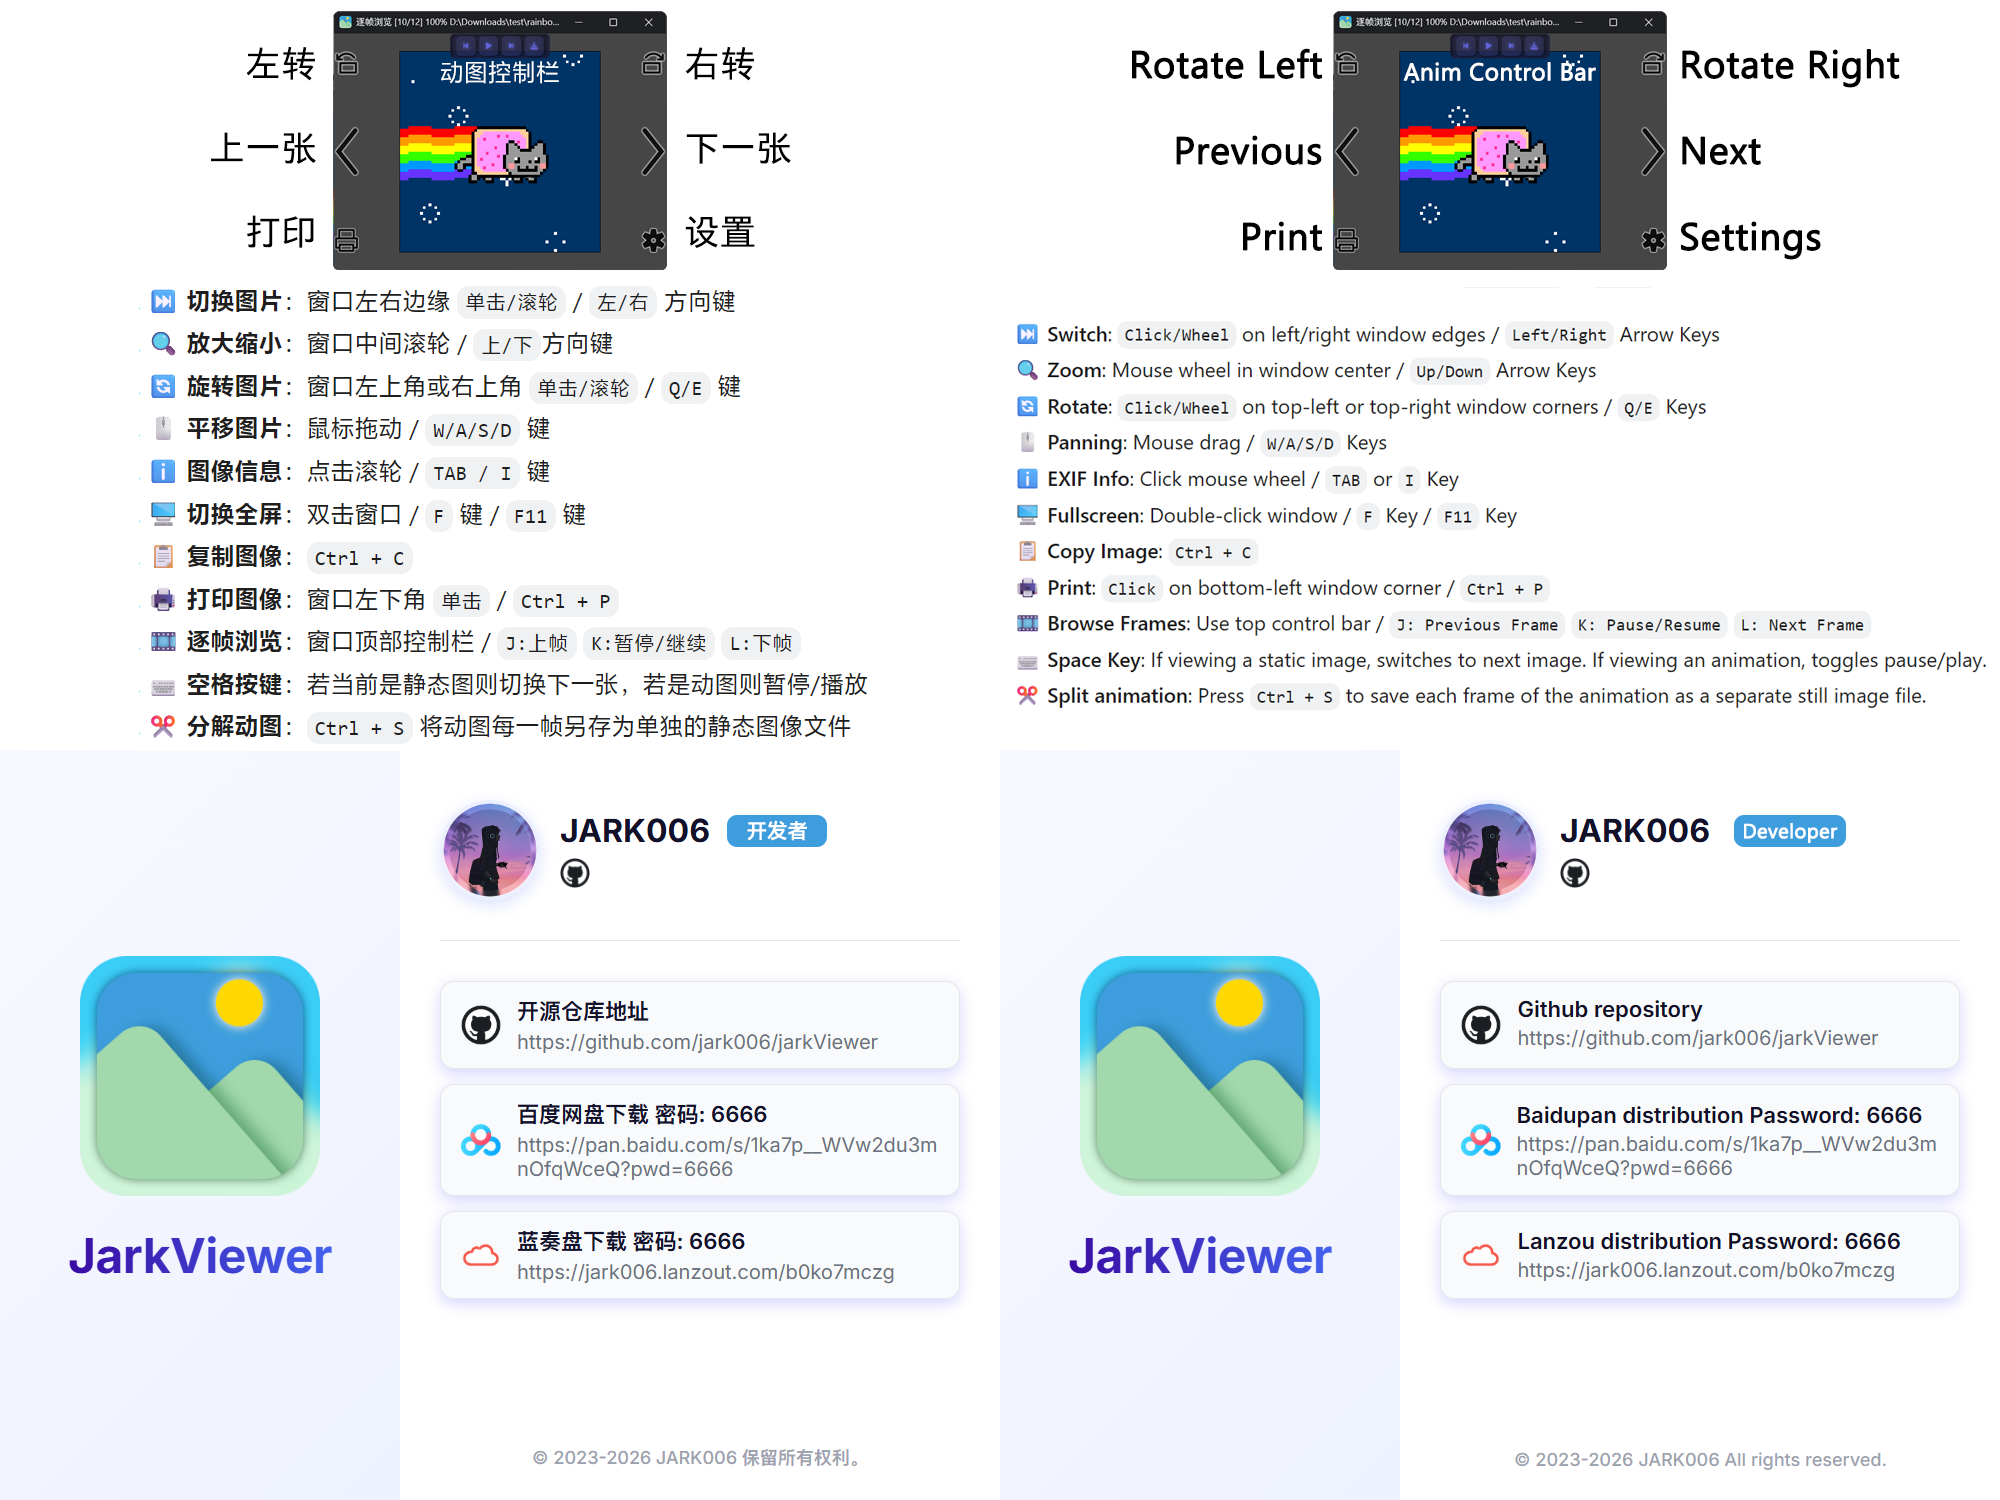
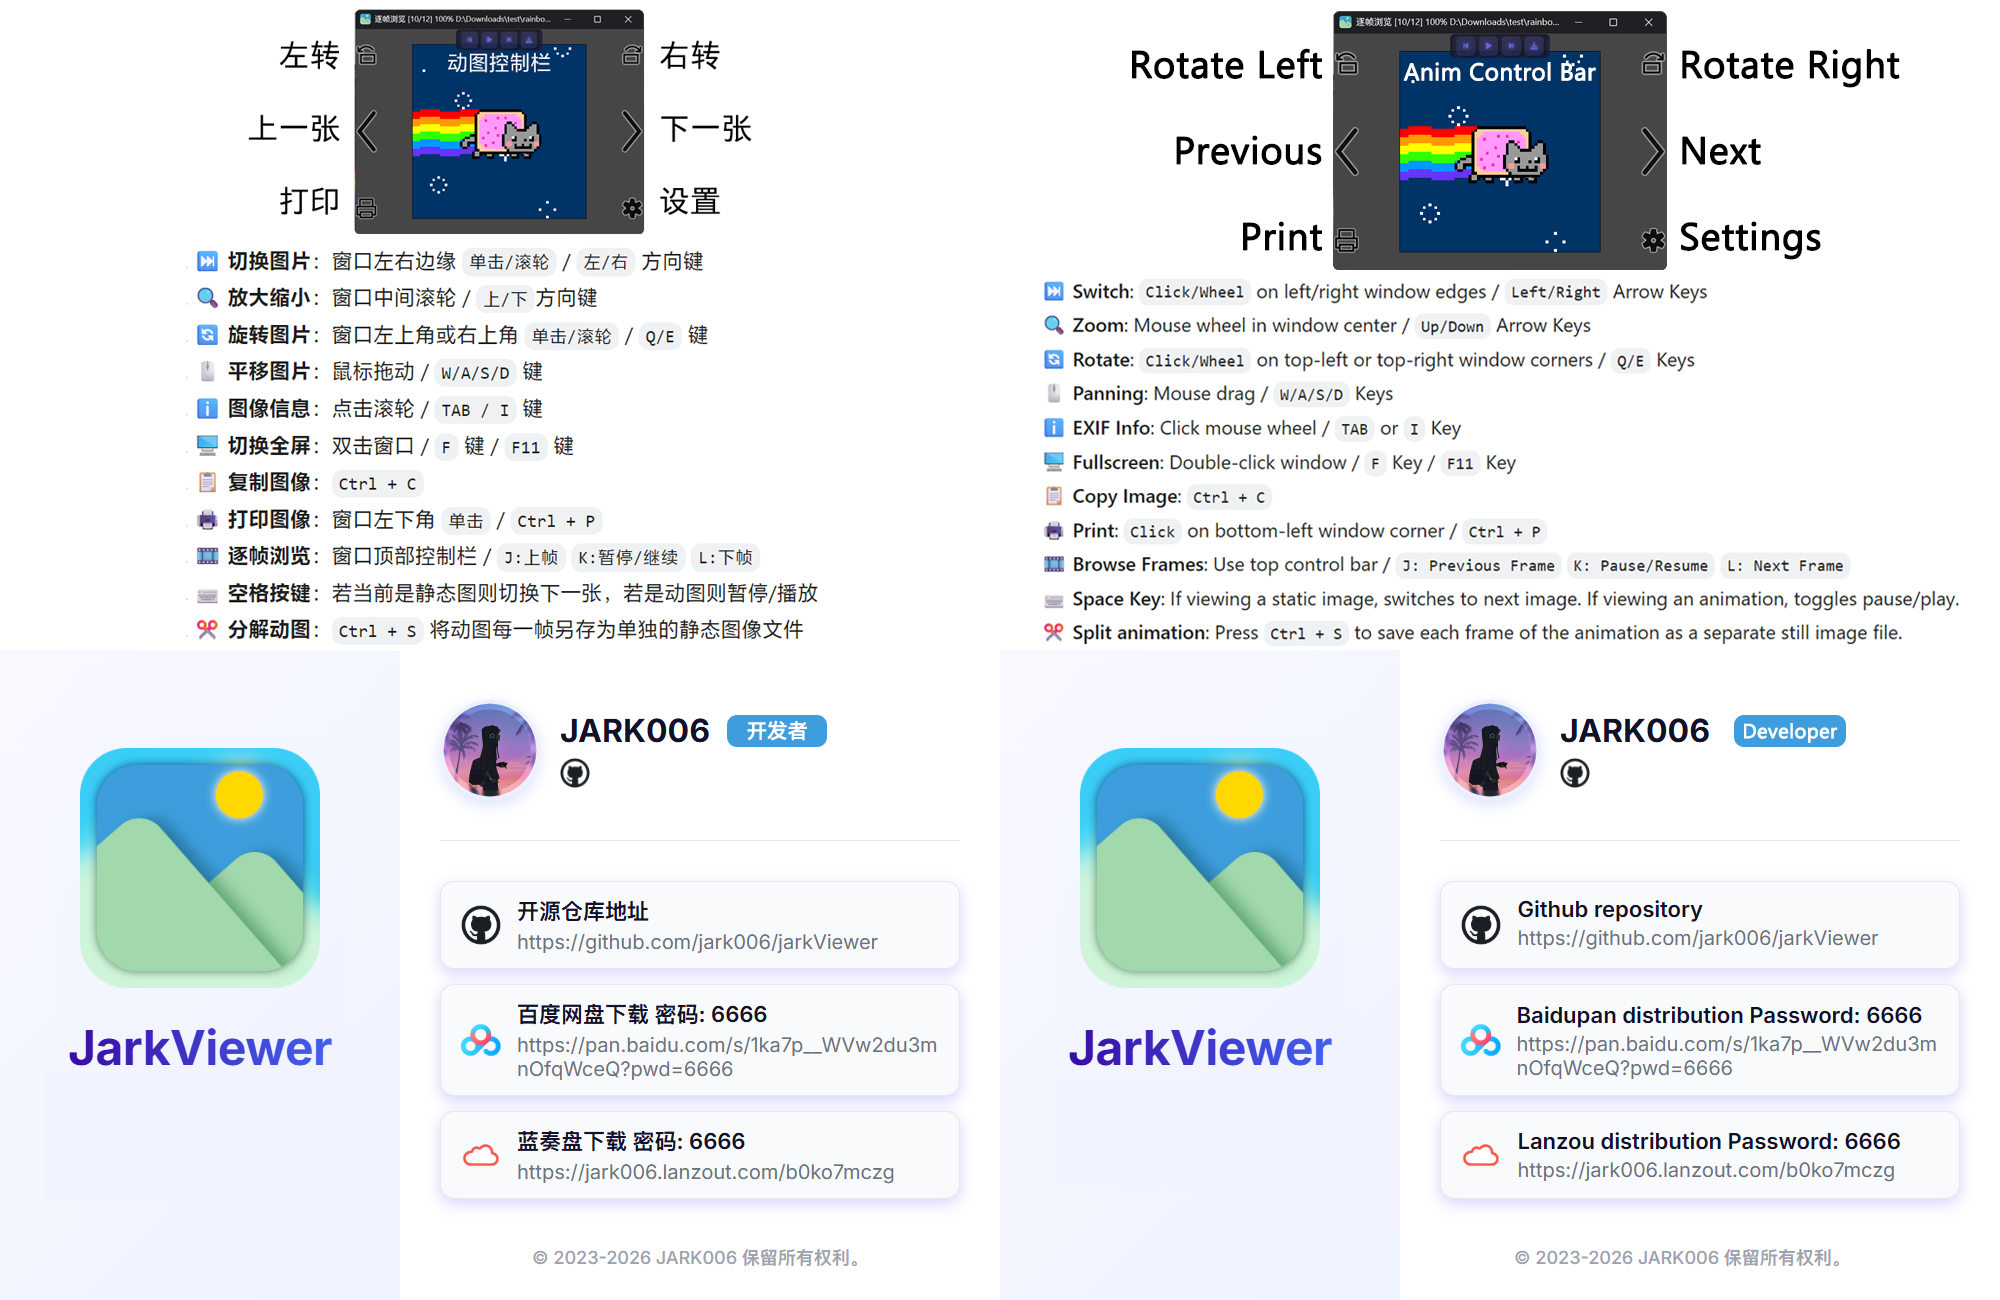
微调UI

diff --git a/JarkViewer/include/Setting.h b/JarkViewer/include/Setting.h
@@ -33,7 +33,7 @@ struct generalTabRadio {
 class Setting {
 private:
     static const int winWidth = 1000;
-    static const int winHeight = 800;
+    static const int winHeight = 700; // 固定UI尺寸适应任意分辨率和DPI，最大700为了照顾1366*768的屏幕
     static const int tabHeight = 50;
     static const int tabWidth = 150;
 
@@ -63,10 +63,10 @@ private:
         rc = jarkUtils::GetResource(IDB_PNG_SETTING_RES, L"PNG");
         settingRes = cv::imdecode(cv::Mat(1, (int)rc.size, CV_8UC1, (uint8_t*)rc.ptr), cv::IMREAD_UNCHANGED);
         
-        helpPage = settingRes({ 0, 0, 1000, 750 });
-        helpPageEN = settingRes({ 1000, 0, 1000, 750 });
-        aboutPage = settingRes({ 0, 750, 1000, 750 });
-        aboutPageEN = settingRes({ 1000, 750, 1000, 750 });        
+        helpPage = settingRes({ 0, 0, 1000, 650 });
+        helpPageEN = settingRes({ 1000, 0, 1000, 650 });
+        aboutPage = settingRes({ 0, 650, 1000, 650 });
+        aboutPageEN = settingRes({ 1000, 650, 1000, 650 });        
 
         // GeneralTab
         if (generalTabCheckBoxList.empty()) {
@@ -230,9 +230,9 @@ public:
 
     void refreshAboutTab() {
         jarkUtils::overlayImg(winCanvas, GlobalVar::settingParameter.UI_LANG == 0 ? aboutPage : aboutPageEN, 0, 50);
-        textDrawer.putAlignCenter(winCanvas, { 0, 580, 400, 40 }, jarkUtils::wstringToUtf8(appVersion).c_str(), { 186, 38, 60, 255 });
-        textDrawer.putAlignCenter(winCanvas, { 0, 670, 400, 40 }, getUIString(19), { 186, 38, 60, 255 });
-        textDrawer.putAlignCenter(winCanvas, { 0, 700, 400, 40 }, jarkUtils::COMPILE_DATE_TIME, { 186, 38, 60, 255 });
+        textDrawer.putAlignCenter(winCanvas, { 0, 480, 400, 40 }, jarkUtils::wstringToUtf8(appVersion).c_str(), { 186, 38, 60, 255 });
+        textDrawer.putAlignCenter(winCanvas, { 0, 570, 400, 40 }, getUIString(19), { 186, 38, 60, 255 });
+        textDrawer.putAlignCenter(winCanvas, { 0, 600, 400, 40 }, jarkUtils::COMPILE_DATE_TIME, { 186, 38, 60, 255 });
 
 #ifndef NDEBUG
         cv::rectangle(winCanvas, jarkBtnRect, cv::Scalar(40, 40, 255, 255), 1);
